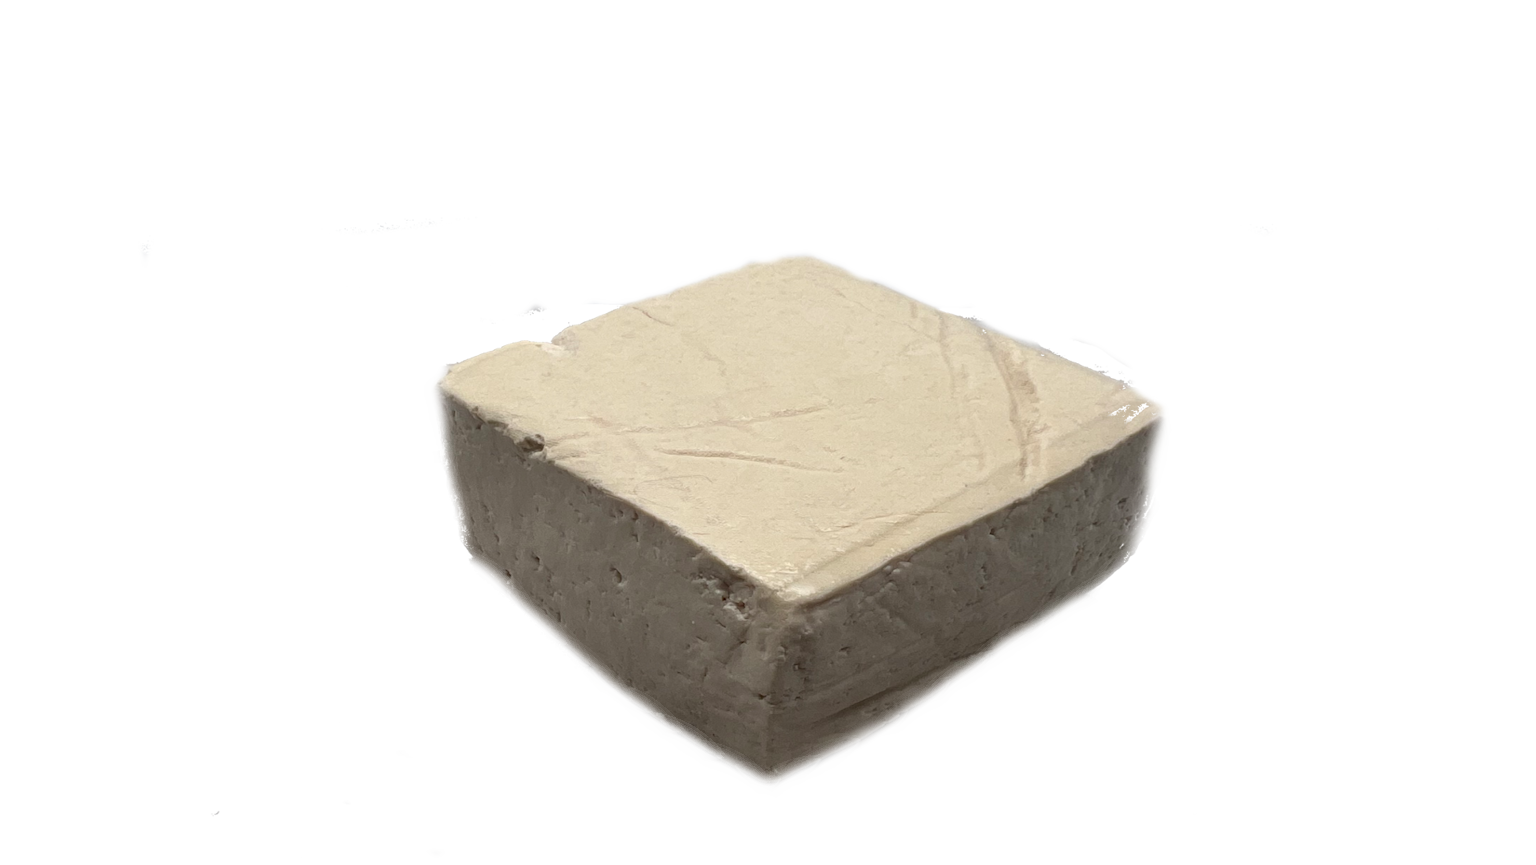
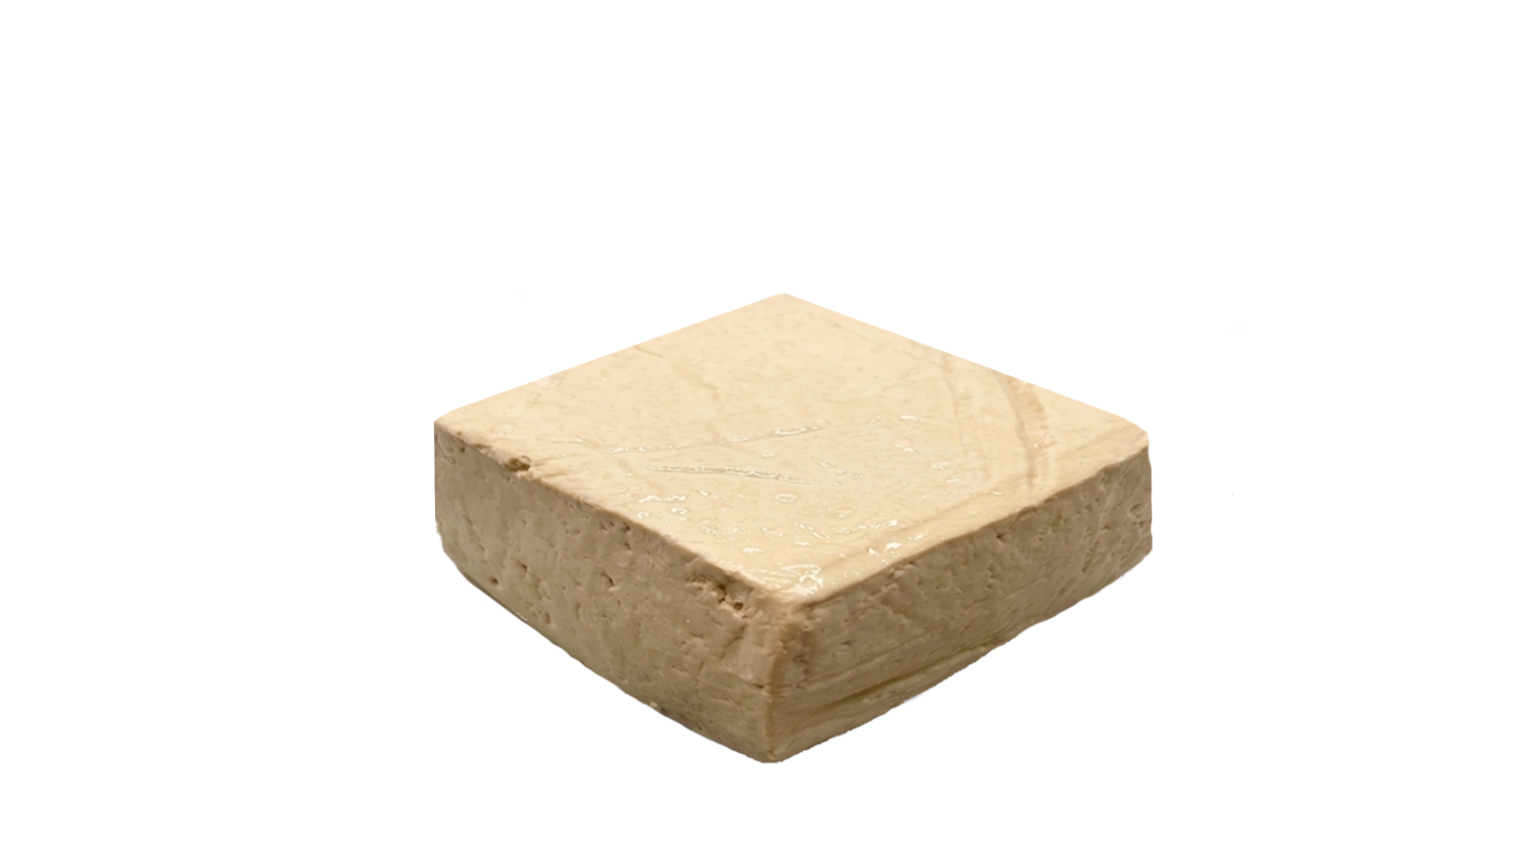
feat(kira): popup y imagen tofu

Changed region(s): [[0.2812, 0.2812, 0.7812, 0.9062]]

diff --git a/src/app/app.component.html b/src/app/app.component.html
@@ -1,14 +1,14 @@
 
 <app-header></app-header>
 <router-outlet />
-<!--
+
 @if (cs.visible() && isHome()) {
     <app-coming-soon
     launchDate="2026-05-29T00:00:00.000Z"
     (closed)="cs.close()"
     (registered)="onRegister($event)"
   /> 
-} -->
+} 
   <a href="https://wa.me/573019447660?text=Hola!%20Vengo%20de%20la%20web%20y%20quiero%20info%20de%20Koky%20Food%20🥦"
    target="_blank"
    class="whatsapp-float">

diff --git a/src/app/home/home.component.html b/src/app/home/home.component.html
@@ -12,7 +12,7 @@
     <div ngxSlickItem *ngFor="let slide of bannerSlides" class="col-md-12">
       <div class="banner-content">
         <h1>{{ slide?.h1Prefix }} <span>{{ slide?.h1HighlightedText }}</span> {{ slide?.h1_suffix }}</h1>
-        <h3>{{ slide?.subtitle }}</h3>
+        <h2>{{ slide?.subtitle }}</h2>
         <p>{{ slide?.description }}</p>
      <a (click)="handleBannerClick(slide?.linkUrl || '', $event)" 
    [href]="(slide?.linkUrl || '').startsWith('trigger:') ? null : (slide?.linkUrl || '#')"